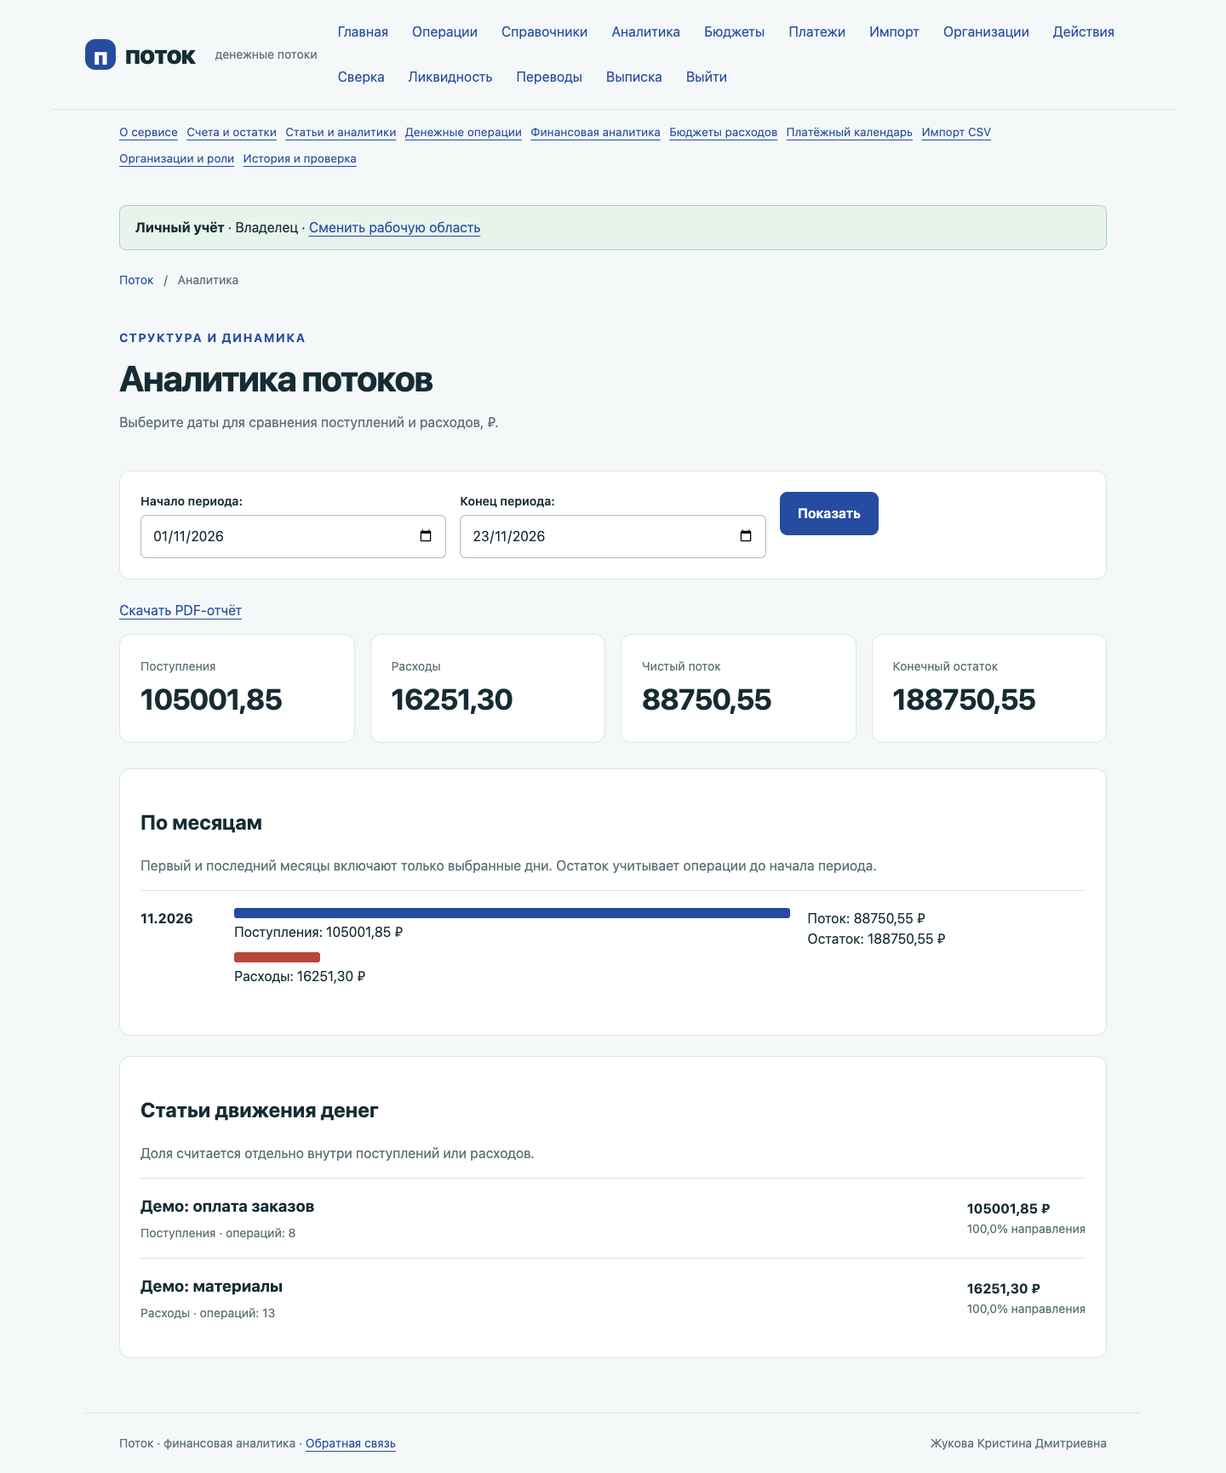
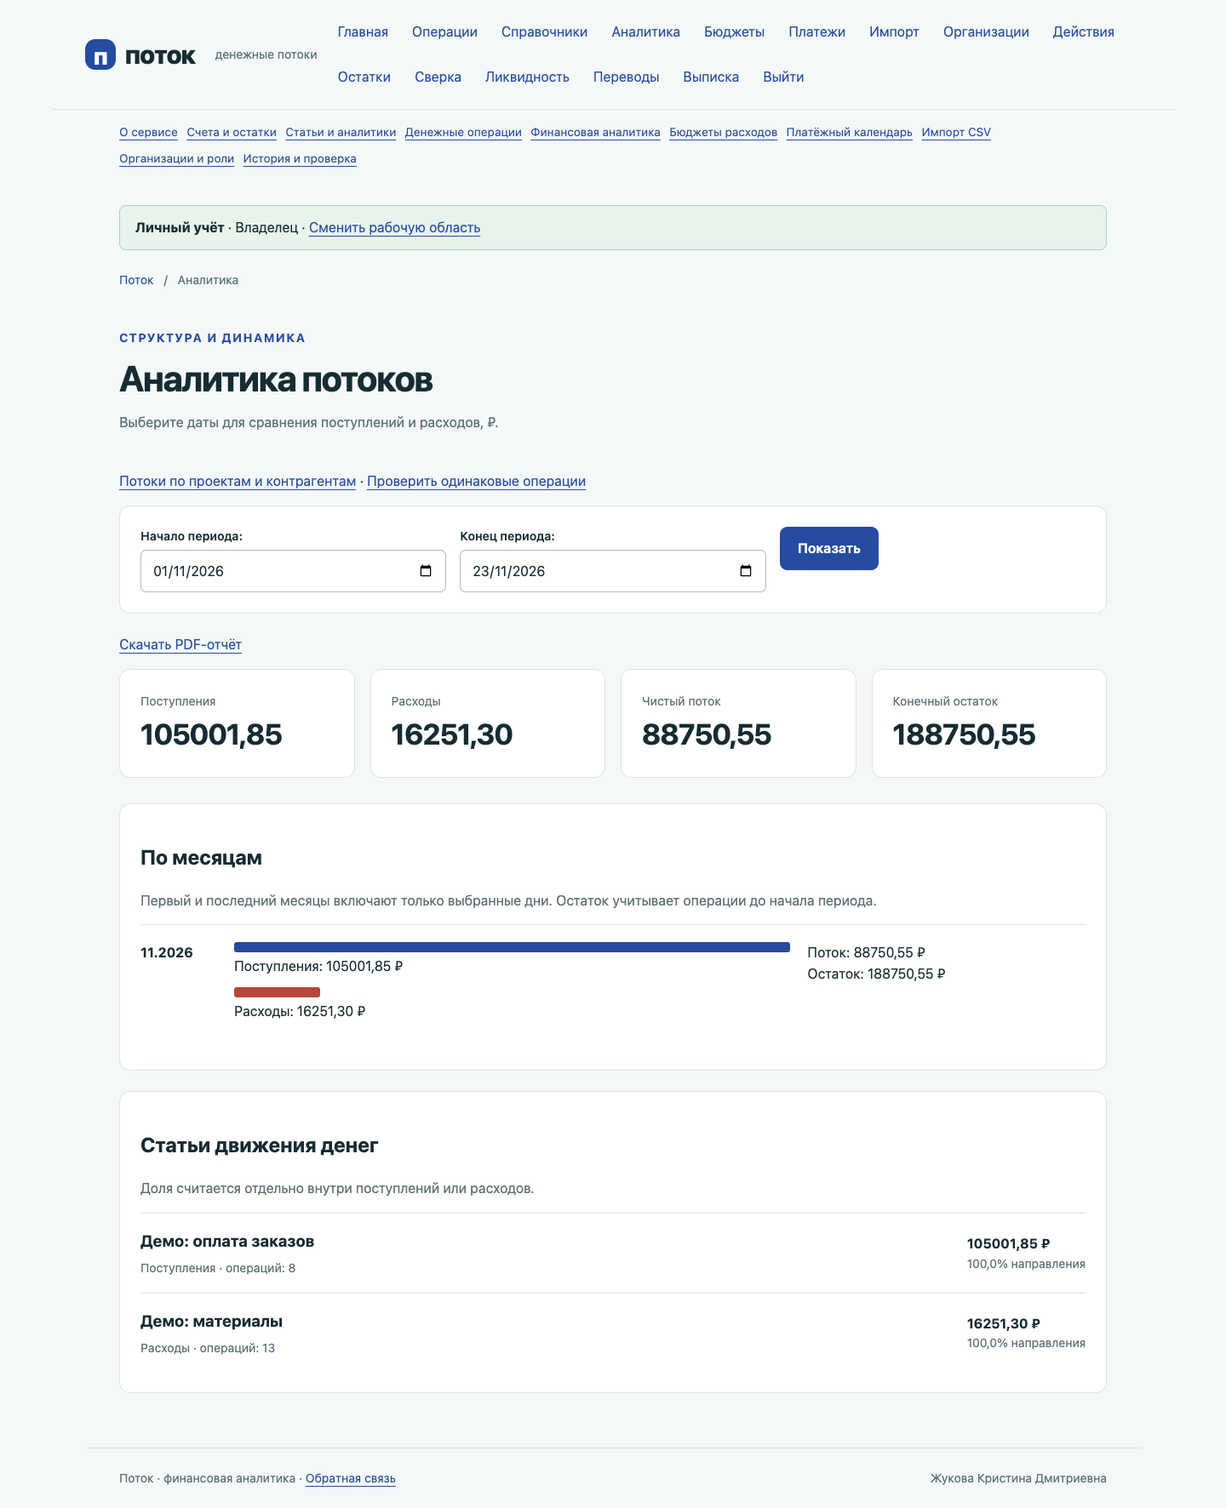
Проверить финансовые разрезы и читаемость новых таблиц в Chrome

diff --git a/templates/cashflow/positions.html b/templates/cashflow/positions.html
@@ -5,6 +5,6 @@
 <form method="get" class="card filter-grid">{{ form.as_p }}<button class="button">Показать остатки</button></form>
 {% if report %}<p>{{ report.scope }} · {{ report.day|date:'d.m.Y' }} · Снимок {{ report.generated_at|date:'d.m.Y H:i:s' }}. <a href="?day={{ report.day|date:'Y-m-d' }}&amp;format=csv">Скачать все счета CSV</a>.</p>
 <section class="stats"><div class="card"><span>Всего на счетах</span><strong>{{ report.totals.balance|floatformat:2 }}</strong></div><div class="card"><span>Поступления за всю историю до даты</span><strong>{{ report.totals.income|floatformat:2 }}</strong></div><div class="card"><span>Расходы за всю историю до даты</span><strong>{{ report.totals.expense|floatformat:2 }}</strong></div><div class="card"><span>Отрицательный остаток</span><strong>{{ report.negative_count }} счетов</strong></div></section>
-<div class="table-wrap"><table><thead><tr><th>Счёт</th><th>Начальный, ₽</th><th>Внешние поступления / расходы, ₽</th><th>Переводы вход / выход, ₽</th><th>Остаток, ₽</th><th>Сверка на эту дату</th></tr></thead><tbody>{% for row in page %}<tr><td><a href="{% url 'statement' %}?account={{ row.account.pk }}&amp;start={{ report.day|date:'Y-m-d' }}&amp;end={{ report.day|date:'Y-m-d' }}">{{ row.account.name }}</a></td><td>{{ row.opening|floatformat:2 }}</td><td>{{ row.income|floatformat:2 }} / {{ row.expense|floatformat:2 }}</td><td>{{ row.transfer_in|floatformat:2 }} / {{ row.transfer_out|floatformat:2 }}</td><td>{{ row.balance|floatformat:2 }}{% if row.negative %} · Отрицательный{% endif %}</td><td>{% if row.snapshot %}Выписка {{ row.snapshot.statement_balance|floatformat:2 }} ₽ · разница {{ row.difference|floatformat:2 }} ₽{% if row.changed_after_snapshot %} · Учёт изменился после сверки{% endif %}{% else %}Снимок сверки отсутствует{% endif %}</td></tr>{% empty %}<tr><td colspan="6">Счета ещё не созданы.</td></tr>{% endfor %}</tbody></table></div>
+<p class="muted">На узком экране таблица прокручивается по горизонтали.</p><div class="table-wrap" tabindex="0" role="region" aria-label="Таблица с горизонтальной прокруткой"><table class="positions-table"><thead><tr><th>Счёт</th><th>Начальный, ₽</th><th>Внешние поступления / расходы, ₽</th><th>Переводы вход / выход, ₽</th><th>Остаток, ₽</th><th>Сверка на эту дату</th></tr></thead><tbody>{% for row in page %}<tr><td><a href="{% url 'statement' %}?account={{ row.account.pk }}&amp;start={{ report.day|date:'Y-m-d' }}&amp;end={{ report.day|date:'Y-m-d' }}">{{ row.account.name }}</a></td><td>{{ row.opening|floatformat:2 }}</td><td>{{ row.income|floatformat:2 }} / {{ row.expense|floatformat:2 }}</td><td>{{ row.transfer_in|floatformat:2 }} / {{ row.transfer_out|floatformat:2 }}</td><td>{{ row.balance|floatformat:2 }}{% if row.negative %} · Отрицательный{% endif %}</td><td>{% if row.snapshot %}Выписка {{ row.snapshot.statement_balance|floatformat:2 }} ₽ · разница {{ row.difference|floatformat:2 }} ₽{% if row.changed_after_snapshot %} · Учёт изменился после сверки{% endif %}{% else %}Снимок сверки отсутствует{% endif %}</td></tr>{% empty %}<tr><td colspan="6">Счета ещё не созданы.</td></tr>{% endfor %}</tbody></table></div>
 <p>Переводы перераспределяют остатки, их общий вход равен общему выходу. Последняя сохранённая сверка берётся только на выбранную дату; снимки не перезаписываются. CSV формируется заново при скачивании.</p>
 <nav class="actions">{% if page.has_previous %}<a href="?day={{ report.day|date:'Y-m-d' }}&amp;page={{ page.previous_page_number }}">Предыдущая</a>{% endif %}<p>{{ page.paginator.count }} счетов · {{ page.number }} / {{ page.paginator.num_pages }}</p>{% if page.has_next %}<a href="?day={{ report.day|date:'Y-m-d' }}&amp;page={{ page.next_page_number }}">Следующая</a>{% endif %}</nav>{% endif %}{% endblock %}

diff --git a/templates/cashflow/dimensions.html b/templates/cashflow/dimensions.html
@@ -6,5 +6,5 @@
 {% if report %}<p>{{ report.scope }} · {{ report.start|date:'d.m.Y' }} — {{ report.end|date:'d.m.Y' }}. Названия из текущих справочников. Снимок {{ report.generated_at|date:'d.m.Y H:i:s' }}.</p>
 <p><a href="?{{ query }}&amp;format=csv">Скачать все группы CSV</a>. При скачивании формируется новый снимок.</p>
 <section class="stats"><div class="card"><span>Поступления</span><strong>{{ report.totals.income|floatformat:2 }}</strong></div><div class="card"><span>Расходы</span><strong>{{ report.totals.expense|floatformat:2 }}</strong></div><div class="card"><span>Чистый поток</span><strong>{{ report.totals.net|floatformat:2 }}</strong></div><div class="card"><span>Операций</span><strong>{{ report.count }}</strong></div></section>
-<div class="table-wrap"><table><thead><tr><th>Группа</th><th>Операций</th><th>Поступления, ₽</th><th>Расходы, ₽</th><th>Поток, ₽</th></tr></thead><tbody>{% for row in page %}<tr><td><a href="{% url 'transaction_list' %}?{{ row.operations_query }}">{{ row.name }}</a></td><td>{{ row.count }}</td><td>{{ row.income|floatformat:2 }}<div class="money-bar income-bar" style="width:{{ row.income_width }}%" aria-hidden="true"></div></td><td>{{ row.expense|floatformat:2 }}<div class="money-bar expense-bar" style="width:{{ row.expense_width }}%" aria-hidden="true"></div></td><td>{{ row.net|floatformat:2 }}</td></tr>{% empty %}<tr><td colspan="5">За период внешних операций нет.</td></tr>{% endfor %}</tbody></table></div>
+<p class="muted">На узком экране таблица прокручивается по горизонтали.</p><div class="table-wrap" tabindex="0" role="region" aria-label="Таблица с горизонтальной прокруткой"><table class="dimensions-table"><thead><tr><th>Группа</th><th>Операций</th><th>Поступления, ₽</th><th>Расходы, ₽</th><th>Поток, ₽</th></tr></thead><tbody>{% for row in page %}<tr><td><a href="{% url 'transaction_list' %}?{{ row.operations_query }}">{{ row.name }}</a></td><td>{{ row.count }}</td><td>{{ row.income|floatformat:2 }}<div class="money-bar income-bar" style="width:{{ row.income_width }}%" aria-hidden="true"></div></td><td>{{ row.expense|floatformat:2 }}<div class="money-bar expense-bar" style="width:{{ row.expense_width }}%" aria-hidden="true"></div></td><td>{{ row.net|floatformat:2 }}</td></tr>{% empty %}<tr><td colspan="5">За период внешних операций нет.</td></tr>{% endfor %}</tbody></table></div>
 <nav class="actions">{% if page.has_previous %}<a href="?{{ query }}&amp;page={{ page.previous_page_number }}">Предыдущая</a>{% endif %}<p>{{ page.paginator.count }} групп · {{ page.number }} / {{ page.paginator.num_pages }}</p>{% if page.has_next %}<a href="?{{ query }}&amp;page={{ page.next_page_number }}">Следующая</a>{% endif %}</nav>{% endif %}{% endblock %}

diff --git a/cashflow/static/cashflow/app.css b/cashflow/static/cashflow/app.css
@@ -90,3 +90,5 @@ input:focus,select:focus,textarea:focus{outline:3px solid #9bd5c5;outline-offset
 table{width:100%;border-collapse:collapse;text-align:left}th,td{padding:13px 16px;border-bottom:1px solid var(--line);vertical-align:top}th{background:var(--soft);font-size:14px}tbody tr:last-child td{border-bottom:0}
 main h1,main h2,.notice,.card{overflow-wrap:anywhere}
 @media(max-width:650px){h1{font-size:36px;letter-spacing:-1px}.table-wrap table{min-width:620px}.card{padding:18px}.breadcrumbs{flex-wrap:wrap}}
+
+.positions-table{min-width:1000px}.dimensions-table{min-width:760px}

diff --git a/scripts/verify_browser.py b/scripts/verify_browser.py
@@ -106,8 +106,39 @@ def verify(app_python, output):
                     rows=list(csv.DictReader(io.StringIO(statement.read_text(encoding='utf-8-sig')),delimiter=';'))
                     assert rows[0]['closing']=='188750.50' and any(row['source']=='transfer' for row in rows)
                     checks.append('account_statement_and_full_csv');shot('statement-desktop.png')
+                    visit('/analytics/')
+                    page.get_by_role('link',name='Потоки по проектам и контрагентам',exact=True).click()
+                    assert '88750,55' in page.locator('main').inner_text()
+                    with page.expect_download() as result:page.get_by_role('link',name='Скачать все группы CSV',exact=True).click()
+                    dimensions_csv=target/'dimensions.csv';result.value.save_as(dimensions_csv)
+                    groups=list(csv.DictReader(io.StringIO(dimensions_csv.read_text(encoding='utf-8-sig')),delimiter=';'))
+                    assert groups[0]['net']=='88750.55' and len(groups)==3
+                    shot('dimensions-desktop.png')
+                    page.get_by_role('link',name='Без проекта',exact=True).click()
+                    assert page.locator('article.task').count()==1
+                    checks.append('dimension_totals_csv_and_unassigned_drilldown')
+                    visit('/balances/')
+                    assert '188750,55' in page.locator('main').inner_text()
+                    with page.expect_download() as result:page.get_by_role('link',name='Скачать все счета CSV',exact=True).click()
+                    positions_csv=target/'positions.csv';result.value.save_as(positions_csv)
+                    positions=list(csv.DictReader(io.StringIO(positions_csv.read_text(encoding='utf-8-sig')),delimiter=';'))
+                    assert positions[0]['balance']=='188750.55' and len(positions)==3
+                    checks.append('all_account_positions_and_csv');shot('positions-desktop.png')
+                    for _ in range(2):
+                        visit('/operations/new/')
+                        page.locator('#id_account').select_option(str(ids['first']));page.locator('#id_category').select_option(str(ids['income']))
+                        page.locator('#id_occurred_on').fill(date.today().isoformat());page.locator('#id_amount').fill('0.01')
+                        page.locator('#id_description').fill('Браузерное совпадение для проверки')
+                        page.get_by_role('button',name='Сохранить',exact=True).click();page.wait_for_url('**/operations/')
+                    visit('/quality/')
+                    assert 'совпадений: 2' in page.locator('main').inner_text()
+                    with page.expect_download() as result:page.get_by_role('link',name='Скачать все совпадения CSV',exact=True).click()
+                    duplicates_csv=target/'duplicates.csv';result.value.save_as(duplicates_csv)
+                    duplicates=list(csv.DictReader(io.StringIO(duplicates_csv.read_text(encoding='utf-8-sig')),delimiter=';'))
+                    assert len(duplicates)==1 and duplicates[0]['matching_records']=='2' and duplicates[0]['possible_extra']=='0.01'
+                    checks.append('possible_duplicates_from_two_distinct_forms');shot('quality-desktop.png')
                     page.set_viewport_size({'width':390,'height':844})
-                    for path,name in [('/operations/','operations-mobile.png'),('/transfers/','transfers-mobile.png'),('/forecast/?account='+str(ids['first'])+'&days=7','forecast-mobile.png')]:
+                    for path,name in [('/operations/','operations-mobile.png'),('/transfers/','transfers-mobile.png'),('/analytics/dimensions/','dimensions-mobile.png'),('/balances/','positions-mobile.png'),('/quality/','quality-mobile.png'),('/forecast/?account='+str(ids['first'])+'&days=7','forecast-mobile.png')]:
                         visit(path);shot(name)
                         dimensions=page.evaluate('({width:document.documentElement.clientWidth,scroll:document.documentElement.scrollWidth})')
                         assert dimensions['scroll']<=dimensions['width']+1,(path,dimensions)

diff --git a/scripts/audit_requirements.py b/scripts/audit_requirements.py
@@ -41,7 +41,7 @@ def audit():
         'application_models':models,'domain_table_count':sum(row['model'] not in technical for row in models),'technical_models':sorted(technical),
         'public_guides':[{'path':'/guide/'+row[0]+'/','title':row[1]} for row in GUIDES],
         'staff_pages':[{'path':'/cabinet/'+slug+'/','title':title} for slug,title in PAGES]+[{'path':'/cabinet/feedback/','title':'Обращения'}],
-        'private_pages':['/operations/','/catalog/','/analytics/','/budgets/','/payments/','/organizations/','/history/','/reconciliation/','/forecast/','/transfers/','/statement/'],
+        'private_pages':['/operations/','/catalog/','/analytics/','/budgets/','/payments/','/organizations/','/history/','/reconciliation/','/forecast/','/transfers/','/statement/','/analytics/dimensions/','/quality/','/balances/'],
         'roles':['admin','editor','viewer'],'limitations':['Counts describe source structure, not semantic correctness. Formal logical-line counting and report formatting require the supervisor’s accepted method.']}
     target=ROOT/'reports/requirements-audit-v1.json';target.write_text(json.dumps(result,ensure_ascii=False,indent=2)+'\n')
     print(json.dumps({k:result[k] for k in ['mixed_code_units','domain_table_count','technical_models']},ensure_ascii=False))

diff --git a/cashflow/quality.py b/cashflow/quality.py
@@ -21,7 +21,7 @@ MAX_OPERATIONS = 10000
 
 
 class QualityForm(AnalysisPeriodForm):
-    account = forms.ModelChoiceField(label='Счёт', queryset=BankAccount.objects.none(), required=False)
+    account = forms.ModelChoiceField(label='Счёт', queryset=BankAccount.objects.none(), required=False, empty_label='Все счета')
 
     def __init__(self, *args, scope, **kwargs):
         super().__init__(*args, **kwargs)

diff --git a/docs/REQUIREMENTS.md b/docs/REQUIREMENTS.md
@@ -22,4 +22,4 @@
 
 Основной сценарий: загрузить или ввести операции → проверить суммы и даты → разнести по статьям → получить притоки, оттоки и остатки → сравнить план с фактом → сформировать отчёт. Реализованы отдельные организации с тремя ролями, справочники, факты, бюджеты, планы, CSV/PDF, приватные документы, сверка, ликвидность и переводы. Демоданные вымышлены; фактическая организация не обследована.
 
-Проверенный состав и ограничения: ARCHITECTURE.md и reports/requirements-audit-v1.json. В схеме16 предметных таблиц без служебных Django, DemoDataset и OperationCommand. Есть10 руководств,6 собственных staff-страниц и11 закрытых разделов. Количественный метод даёт2000 смешанных единиц AST/HTML/CSS: порог2000 по этому смешанному методу достигнут; согласование формального метода с руководителем остаётся открытым, как и индивидуальная норма коммитов. Реальные HTTP/Chrome и локальная установка описаны в ACCEPTANCE.md; приложение устанавливается и запускается локально.
+Проверенный состав и ограничения: ARCHITECTURE.md и reports/requirements-audit-v1.json. В схеме16 предметных таблиц без служебных Django, DemoDataset и OperationCommand. Есть10 руководств,6 собственных staff-страниц и14 закрытых разделов. Количественный метод даёт2255 смешанных единиц AST/HTML/CSS: порог2000 по этому смешанному методу достигнут; согласование формального метода с руководителем остаётся открытым, как и индивидуальная норма коммитов. Реальные HTTP/Chrome и локальная установка описаны в ACCEPTANCE.md; приложение устанавливается и запускается локально.

diff --git a/docs/ACCEPTANCE.md b/docs/ACCEPTANCE.md
@@ -15,3 +15,5 @@
 В заключительном сценарии Chrome также проверил заполненную сегодняшнюю дату и сохранение сверки с точным остатком188750.50₽ после операции/перевода. Восемь браузерных проверок, дополнительный снимок сверки просмотрен.
 
 Ручной ввод защищён UUID-квитанцией: повтор того же POST не дублирует деньги и аудит; конфликт данных отклоняется. Удалённая операция не восстанавливается старой формой. Квитанции — техническая таблица, не предметная. Проверены77 тестов SQLite (один PostgreSQL-сценарий пропущен); весь набор затем прошёл и на PostgreSQL16.14, см. POSTGRESQL.md.
+
+После возобновления работы23ноября:86 тестовSQLite прошли (одинPG-сценарий пропущен). Chrome13 сценариев включает точные суммы нового отчёта иCSV, переход к операциям без проекта, сводку всех счетов и возможные дубли из двух разных форм. Новые шесть desktop/mobile-областей просмотрены, для таблиц настроена читаемая горизонтальная прокрутка с доступом клавиатурой. Аудит2255 смешанных единиц. Новые групповые запросы отдельно наPG в этом блоке пока не проверены.
